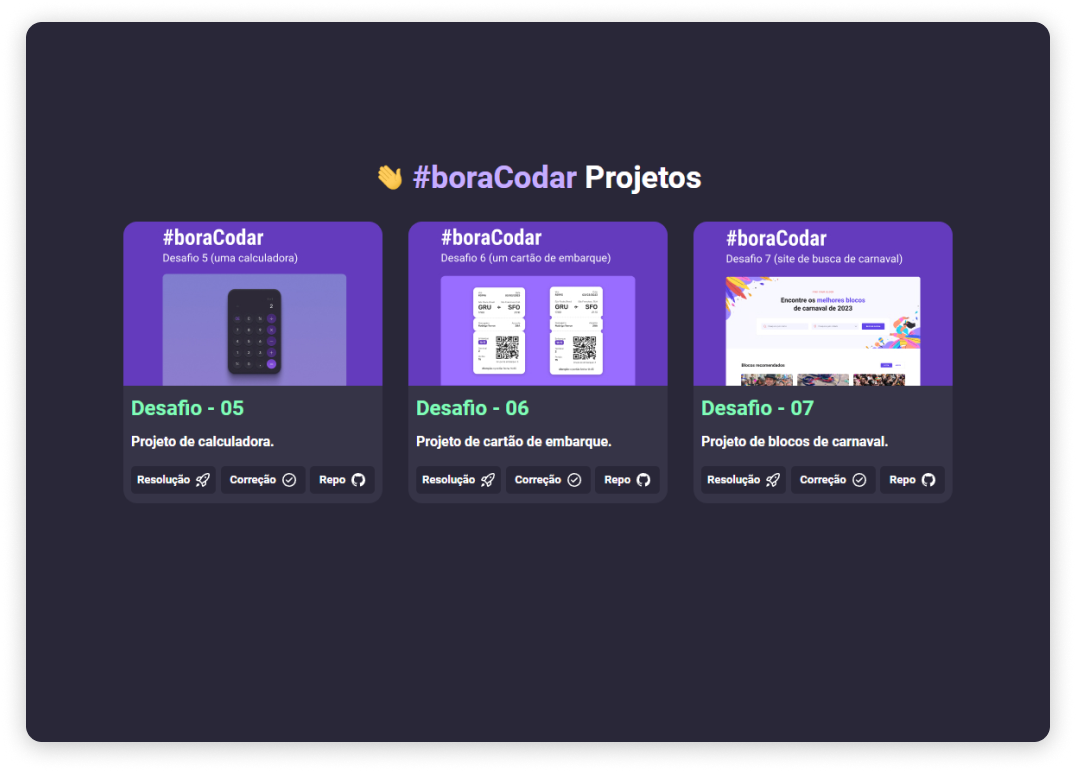
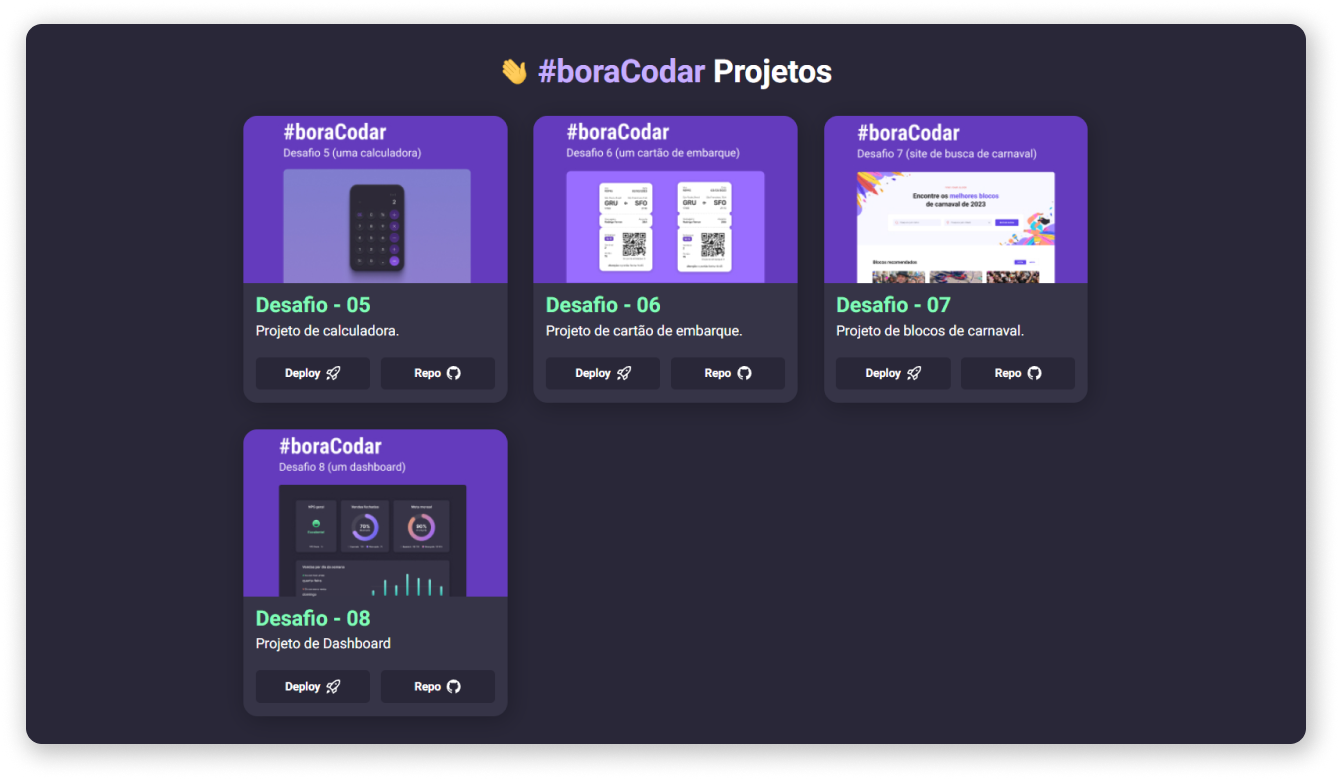
:memo: update readme
changed description, images and links

diff --git a/.github/README.md b/.github/README.md
@@ -2,11 +2,19 @@
   <img src="hi.gif" alt="Mão acenando" width="30px">
   Bem Vindo ao Bora Codar
 </h1>
-<p align="center">🌐🚀 Este repositório foi criado com o objetivo de armazenar as resoluções e correções dos desafios semanais do #boraCodar, um projeto desenvolvido pela Rocketseat.</p>
+<p align="center">🌐🚀 Este projeto foi desenvolvido com o intuito de proporcionar uma Home page contendo todos os #boraCodar solucionados.</p>
+
+<p align="center">
+  <a href="#-tecnologias">Tecnologias</a>&nbsp;&nbsp;&nbsp;|&nbsp;&nbsp;&nbsp;
+  <a href="#-ferramentas">Ferramentas</a>&nbsp;&nbsp;&nbsp;|&nbsp;&nbsp;&nbsp;
+  <a href="#-execução">Execução</a>&nbsp;&nbsp;&nbsp;|&nbsp;&nbsp;&nbsp;
+  <a href="#-layout">Layout</a>&nbsp;&nbsp;&nbsp;|&nbsp;&nbsp;&nbsp;
+  <a href="#-autor">Autor</a>&nbsp;&nbsp;&nbsp;|&nbsp;&nbsp;&nbsp;
+</p>
 
 <div align="center">
 
-![Bora Codar](./readme-bora-codar.png)
+![Bora Codar](./home-boraCodar.png)
 
 </div>
 
@@ -19,19 +27,30 @@
   </a>
 </p>
 
-## 🚀 Todos Projetos
+## [✨ Deploy](https://wesleyallan.github.io/bora-codar)
 
-Você pode acessar uma web page contento todos os projetos com suas resoluções realizadas por mim, correções desenvolvidas juntamente com o professor, e o link do repositório. <strong>Basta clicar na imagem</strong>
+## 🚀 Tecnologias
+Tecnologias utilizadas no desenvolvimento no código do projeto.
 
-<div align="center">
-  <a href="https://wesleyallan.github.io/bora-codar" target="_blank">
-    <img src="./home-boraCodar.png" width="600px" />
-  </a>
-</div>
+- HTML
+- CSS
+- JavaScript
 
-## ⚙ Executar
+## 🔧 Ferramentas
+Ferramentas utilizadas para o desenvolvimento e ou manutenção do código do projeto.
 
-Para visualizar o resultado dos códigos, basta abrir o arquivo HTML no navegador ou iniciar um servidor simples usando de soluções como `http-server`.
+- Visual Studio Code
+- Git
+- Figma
+
+## ⚙ Execução
+
+Para visualizar o resultado do códigos, apos clonar o repositório basta abrir o arquivo HTML no navegador ou iniciar um servidor simples usando de soluções como `http-server`, `Live Server`, entre outros.
+
+```sh
+git clone https://github.com/wesleyallan/bora-codar
+cd calculator
+```
 
 ## 📑 Layout
 
